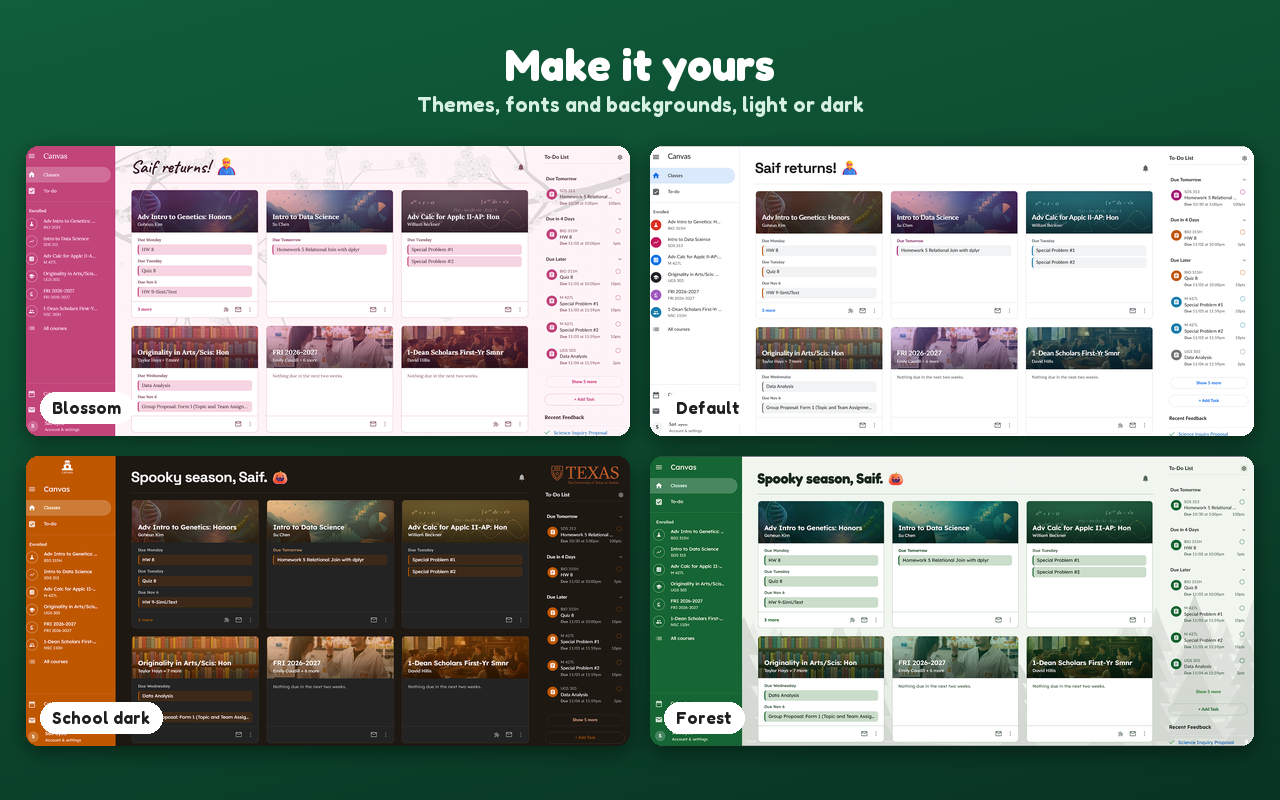
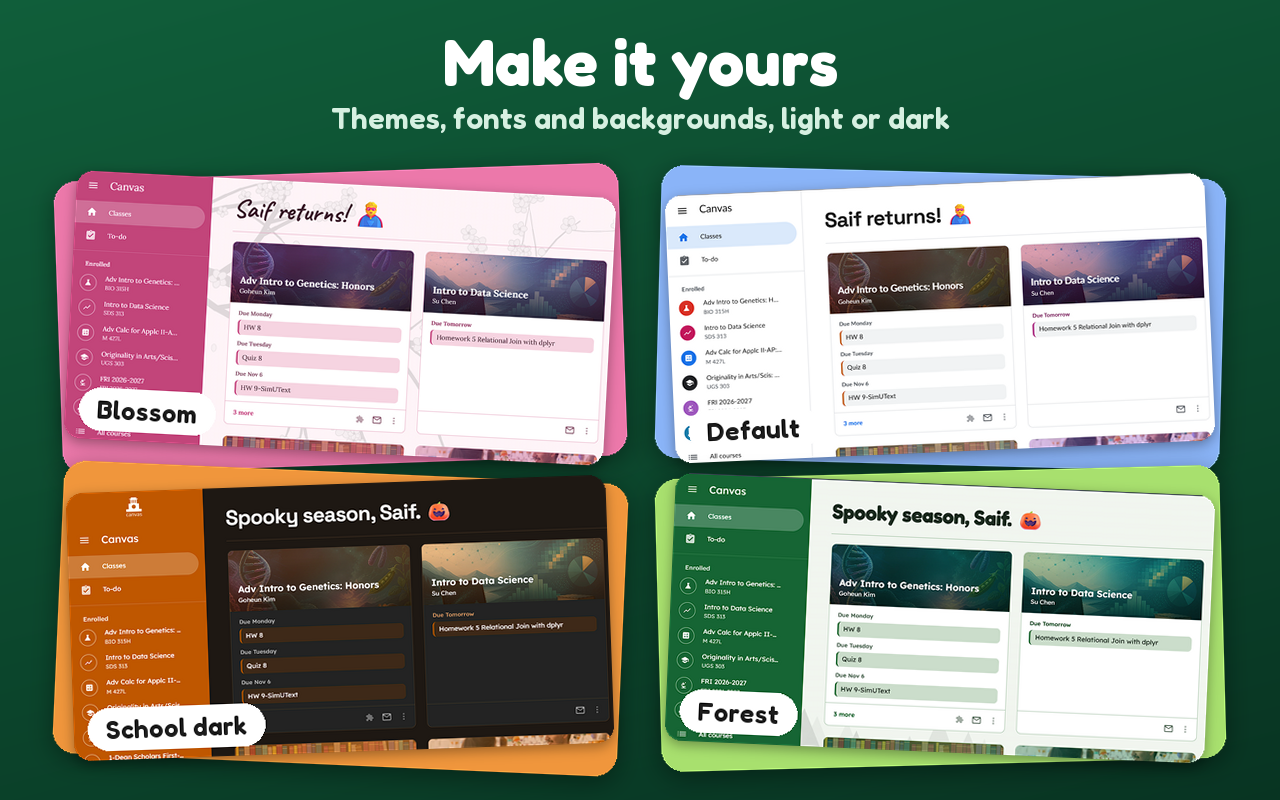
Store slides: bigger words, and the themes and pet screenshots zoomed in and tilted on colored cards

diff --git a/store/make-images.py b/store/make-images.py
@@ -95,11 +95,12 @@ def chip(bg, xy, text, px=17):
     f = font('fredoka-latin-600-normal.woff2', px)
     w = d.textlength(text, font=f)
     x, y = xy
-    d.rounded_rectangle((x, y, x + w + 24, y + px + 14), (px + 14) // 2, fill=(255, 255, 255))
-    d.text((x + 12, y + 5), text, font=f, fill=(30, 30, 30))
+    padx, hgt = round(px * 0.7), round(px * 1.6)
+    d.rounded_rectangle((x, y, x + w + padx * 2, y + hgt), hgt // 2, fill=(255, 255, 255))
+    d.text((x + padx, y + hgt / 2), text, font=f, fill=(30, 30, 30), anchor='lm')
 
 
-def keycaps(bg, keys, y, px=22):
+def keycaps(bg, keys, y, px=30):
     """Ctrl + Space, as keys, centered."""
     d = ImageDraw.Draw(bg)
     f = font('fredoka-latin-600-normal.woff2', px)
@@ -115,20 +116,44 @@ def keycaps(bg, keys, y, px=22):
             x += gap
 
 
+def tilted(bg, img, center, angle, under, under_angle, r=16, blur=12):
+    """img with rounded corners, turned angle degrees, on a rounded card of color under that's
+    turned a little differently, both centered on center."""
+    pad = blur * 3
+    w, h = img.width + 24, img.height + 24
+    card = Image.new('RGBA', (w + pad * 2, h + pad * 2), (0, 0, 0, 0))
+    ImageDraw.Draw(card).rounded_rectangle((pad, pad, pad + w, pad + h), r + 6, fill=under + (255,))
+    card = card.rotate(under_angle, Image.BICUBIC, expand=True)
+    sh = Image.new('RGBA', card.size, (0, 0, 0, 0))
+    sh.putalpha(card.getchannel('A').point(lambda a: a * 100 // 255))
+    sh = sh.filter(ImageFilter.GaussianBlur(blur))
+    bg.alpha_composite(sh, (center[0] - sh.width // 2, center[1] - sh.height // 2 + blur // 2))
+    bg.alpha_composite(card, (center[0] - card.width // 2, center[1] - card.height // 2))
+    top = Image.new('RGBA', (img.width + pad * 2, img.height + pad * 2), (0, 0, 0, 0))
+    top.alpha_composite(rounded(img, r), (pad, pad))
+    top = top.rotate(angle, Image.BICUBIC, expand=True)
+    sh = Image.new('RGBA', top.size, (0, 0, 0, 0))
+    sh.putalpha(top.getchannel('A').point(lambda a: a * 90 // 255))
+    sh = sh.filter(ImageFilter.GaussianBlur(blur // 2))
+    bg.alpha_composite(sh, (center[0] - sh.width // 2, center[1] - sh.height // 2 + blur // 3))
+    bg.alpha_composite(top, (center[0] - top.width // 2, center[1] - top.height // 2))
+
+
 def slide_themes():
     shots = [(raw(n), label) for n, label in THEMES]
     if any(im is None for im, _ in shots):
         return None
     bg = gradient(1280, 800).convert('RGBA')
-    heading(bg, 'Make it yours', 'Themes, fonts and backgrounds, light or dark', 38, 44, 21)
-    # Wide browser-window shots: tiles near their own shape, so little is cropped.
-    tw, th, gap = 604, 290, 20
-    x0, y0 = (1280 - tw * 2 - gap) // 2, 146
-    for i, (im, label) in enumerate(shots):
-        x = x0 + (i % 2) * (tw + gap)
-        y = y0 + (i // 2) * (th + gap)
-        paste_shadowed(bg, cover(im, tw, th), (x, y), 12, 10)
-        chip(bg, (x + 14, y + th - 44), label)
+    heading(bg, 'Make it yours', 'Themes, fonts and backgrounds, light or dark', 22, 64, 30)
+    # Zoomed in on the sidebar, greeting and first cards, so the page reads at this size. Each is
+    # turned a little, on a card in its theme's color turned the other way.
+    tw, th = 540, 268
+    cards = [((340, 318), -3, (236, 120, 170), 2), ((940, 318), 2.5, (138, 180, 248), -1.5),
+             ((340, 618), 2, (240, 150, 60), -2.5), ((940, 618), -2.5, (168, 224, 110), 1.5)]
+    for (im, label), (c, ang, col, uang) in zip(shots, cards):
+        tile = cover(im, tw, th, (0.3, 0.28), 1.55).convert('RGBA')
+        chip(tile, (14, th - 52), label, 26)
+        tilted(bg, tile, c, ang, col, uang)
     return bg.convert('RGB')
 
 
@@ -137,9 +162,9 @@ def slide_ai():
     if pill is None or chat is None:
         return None
     bg = gradient(1280, 800).convert('RGBA')
-    heading(bg, 'AI assistance', None, 34, 50)
-    keycaps(bg, ['Ctrl', 'Space'], 104)
-    pw, ph, y = 540, 520, 186
+    heading(bg, 'AI assistance', None, 22, 64)
+    keycaps(bg, ['Ctrl', 'Space'], 108)
+    pw, ph, y = 540, 486, 196
     # Ask anything sits in the middle of the page; the answer fills the panel.
     paste_shadowed(bg, cover(pill, pw, ph, (0.5, 0.5), 1.35), (60, y), 16, 12)
     paste_shadowed(bg, cover(chat, pw, ph, (0.5, 0.5), 1.2), (1280 - 60 - pw, y), 16, 12)
@@ -147,9 +172,9 @@ def slide_ai():
     cx, cy = 640, y + ph // 2
     d.ellipse((cx - 30, cy - 30, cx + 30, cy + 30), fill=(255, 255, 255, 245))
     d.polygon([(cx - 10, cy - 14), (cx + 14, cy), (cx - 10, cy + 14)], fill=TOP)
-    f = font('fredoka-latin-600-normal.woff2', 18)
+    f = font('fredoka-latin-600-normal.woff2', 24)
     note = 'Runs on your own OpenAI key. We never see it, or anything you ask.'
-    d.text(((1280 - d.textlength(note, font=f)) / 2, y + ph + 22), note, font=f, fill=(214, 240, 225))
+    d.text(((1280 - d.textlength(note, font=f)) / 2, y + ph + 26), note, font=f, fill=(214, 240, 225))
     return bg.convert('RGB')
 
 
@@ -158,15 +183,17 @@ def slide_pet(at=None):
     if shot is None:
         return None
     bg = gradient(1280, 800).convert('RGBA')
-    heading(bg, 'A pettable companion', 'that keeps you on track', 26, 44, 22)
-    # Close to a browser window's shape, so little of the page is cut off.
-    sw, sh = 1180, 560
-    x, y = (1280 - sw) // 2, 166
-    paste_shadowed(bg, cover(shot, sw, sh), (x, y), 14, 12)
+    heading(bg, 'A pettable companion', 'that keeps you on track', 22, 64, 32)
+    # Turned a little on a card, like the themes slide.
+    sw, sh = 1100, 540
+    x, y = (1280 - sw) // 2, 200
+    # The class cards and the to-do list, without Canvas's sidebar (where the pet isn't).
+    box = (round(shot.width * 0.172), round(shot.height * 0.14), shot.width, shot.height)
+    tilted(bg, cover(shot.crop(box), sw, sh).convert('RGBA'), (640, y + sh // 2), -1.2, (236, 120, 170), 1.2)
     if at:
         # A closer look at the pet and its bubble: a circle at the bottom right, 2.4x the slide's scale.
         r = 150
-        k = max(sw / shot.width, sh / shot.height)
+        k = max(sw / (box[2] - box[0]), sh / (box[3] - box[1]))
         base = max(2 * r / shot.width, 2 * r / shot.height)
         z = cover(shot, 2 * r, 2 * r, (at[0] / shot.width, at[1] / shot.height), 2.4 * k / base).convert('RGBA')
         m = Image.new('L', (2 * r, 2 * r), 0)
@@ -233,8 +260,8 @@ def main():
             im = Image.open(os.path.join(SHOTS, fallback + '.jpg')).convert('RGB').resize((1280, 800), Image.LANCZOS)
         im.save(os.path.join(OUT, f'screenshot-{i}-{name}.png'))
     two = '\n'.join(a.name.rsplit(' ', 1))
-    promo(440, 280, two, 'Canvas, Classroom-style', 320, 40, 32, 15, 22, show=0.6).save(os.path.join(OUT, 'promo-small.png'))
-    promo(1400, 560, two, 'Canvas, Classroom-style.\nWith AI that knows your classes.', 1000, 96, 92, 36, 64).save(os.path.join(OUT, 'promo-marquee.png'))
+    promo(440, 280, two, 'Canvas, Classroom-style', 300, 40, 40, 20, 22, show=0.5).save(os.path.join(OUT, 'promo-small.png'))
+    promo(1400, 560, two, 'Canvas, Classroom-style.\nWith AI that knows your classes.', 900, 84, 108, 44, 56, show=0.72).save(os.path.join(OUT, 'promo-marquee.png'))
     print('wrote', OUT)
 
 
